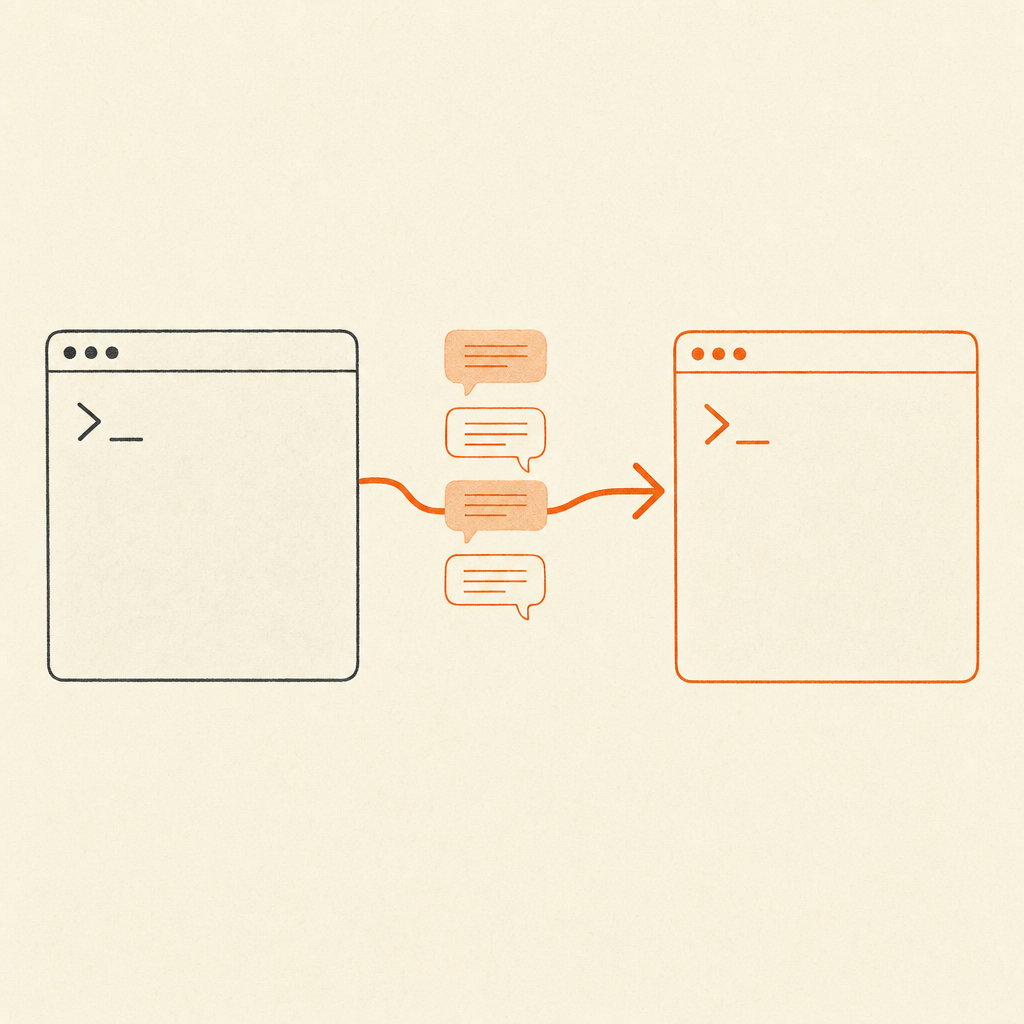
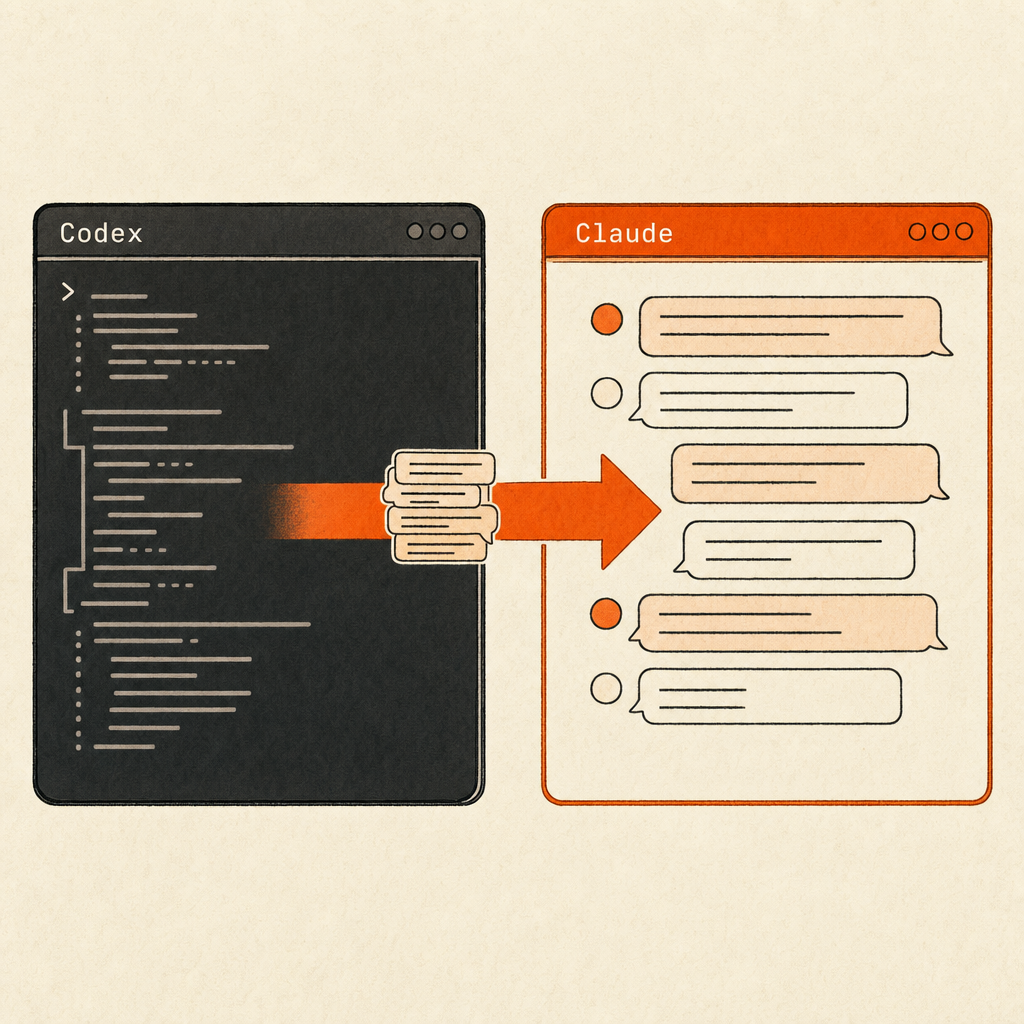
README: 只顶部 bio 双语(可见), 其余英文; hero 重画 Codex→Claude 标注+紧凑构图

diff --git a/bin/gen-hero.py b/bin/gen-hero.py
@@ -4,13 +4,16 @@ import os, sys, json, base64, urllib.request
 
 KEY = os.environ["OPENROUTER_API_KEY"]
 PROMPT = (
-    "A minimal flat editorial illustration on a warm paper-ink background (#F4EEE2). "
-    "Two simple terminal windows side by side: the left one tinted neutral charcoal, "
-    "the right one accented with persimmon orange (#F25C05). A single bold persimmon arrow "
-    "flows from the left terminal into the right one, carrying a small stylized stack of "
-    "chat-bubble lines (a conversation transcript) along the arrow. Calm, intentional, "
-    "hand-crafted tech aesthetic, lots of negative space, thin ink strokes, no text, "
-    "no logos, no emoji. 16:9 composition."
+    "A minimal flat editorial illustration on a warm paper-ink background (#F4EEE2), "
+    "tight composition that fills the frame with little empty margin. "
+    "Two simple terminal windows side by side, large and centered. The left window is "
+    "tinted neutral charcoal and clearly labeled 'Codex' in small clean lettering on its "
+    "title bar. The right window is accented with persimmon orange (#F25C05) and clearly "
+    "labeled 'Claude' on its title bar. A single bold persimmon arrow flows from the left "
+    "(Codex) terminal into the right (Claude) one, carrying a small stylized stack of "
+    "chat-bubble lines (a conversation transcript) along the arrow. Only the two words "
+    "'Codex' and 'Claude' appear as text; no other text, no logos, no emoji. Calm, "
+    "intentional, hand-crafted tech aesthetic, thin ink strokes. 16:9 composition."
 )
 
 def call(model):

diff --git a/README.md b/README.md
@@ -1,24 +1,24 @@
 # codex2claude
 
 Import a Codex session into Claude Code and resume it directly with `claude --resume` after quitting.
-<!-- 把一条 Codex 会话导入 Claude Code，退出后 `claude --resume` 直接接着聊。 -->
+
+把一条 Codex 会话导入 Claude Code，退出后用 `claude --resume` 直接接着聊。
 
 Codex natively supports `import-from-Claude`, but the reverse direction has been missing. `codex2claude` fills that gap — shipped as a Claude Code plugin, one slash command does the job.
-<!-- Codex 原生支持 `import-from-Claude`，反方向一直缺。`codex2claude` 补上这条——做成一个 Claude Code 插件，一个 slash 命令搞定。 -->
+
+Codex 原生支持 `import-from-Claude`，反方向一直缺。`codex2claude` 补上这条——做成一个 Claude Code 插件，一个 slash 命令搞定。
 
 <p align="center"><img src="assets/hero.png" width="480" alt="codex2claude"></p>
 
 ## Install
 
 Requires the [transession](https://github.com/inmzhang/transession) engine for transcoding:
-<!-- 需要引擎 [transession](https://github.com/inmzhang/transession) 做转码： -->
 
 ```sh
 cargo install transession
 ```
 
 Install the plugin (inside Claude Code):
-<!-- 装插件（Claude Code 内）： -->
 
 ```
 /plugin marketplace add MisterBrookT/codex2claude
@@ -28,7 +28,6 @@ Install the plugin (inside Claude Code):
 ## Usage
 
 Inside Claude Code:
-<!-- 在 Claude Code 里： -->
 
 ```
 /import-codex            # default: import ALL Codex sessions (the reverse of Codex's)
@@ -37,10 +36,8 @@ Inside Claude Code:
 ```
 
 Each session is written into its matching project directory by its own `cwd`, with deduplication. Quit after importing, then run `claude -r` in any project — the picker lists the just-imported Codex sessions; pick one to continue. No manual transcoding commands.
-<!-- 每条按它自己的 cwd 写进对应项目目录、去重。导完退出，在任意项目里跑 `claude -r`，picker 就列出刚导入的 Codex 会话，选一条接着聊。全程不手敲转码命令。 -->
 
 > Zero-token option: the slash command still passes through the model once per call. To burn zero tokens, run `bash ~/.claude/bin/import-codex.sh` directly in the terminal (or wrap it in an alias). Claude Code's custom slash commands must pass through one model round — this is a platform limit.
-> <!-- 零 token 方案：slash 命令每次会过一次模型。想完全不耗 token，直接在终端跑 `bash ~/.claude/bin/import-codex.sh`（或包个 alias）。Claude Code 的自定义 slash 必经模型一轮，这是平台限制。 -->
 
 ## How it works
 
@@ -53,17 +50,9 @@ Each session is written into its matching project directory by its own `cwd`, wi
 - **normalize**: rewrites the output into a native-faithful transcript (fixes Codex content tags, image sources, picker title, missing native fields) so it loads and resumes without errors
 - **dedup**: `~/.claude/codex-import-ledger.tsv` tracks `codex_sid → claude_sid` so the same session isn't re-imported
 
-<!--
-- **detect**：默认抓全部 Codex rollout，也可传 session id
-- **transcode**：复用 transession 的 universal IR 在两套格式间互转
-- **normalize**：把输出改写成原生忠实的 transcript（修 Codex content tag、图片源、picker 标题、缺的原生字段），保证能加载且续聊不报错
-- **dedup**：`~/.claude/codex-import-ledger.tsv` 记 `codex_sid → claude_sid`，同一条不重复导
--->
-
 ## Limitations
 
 Converts messages / tool calls / timestamps / metadata; **drops** the reasoning payload and runtime cache — enough context to resume, not a token-perfect replica.
-<!-- 转 messages / tool calls / timestamps / metadata，**丢** reasoning payload 和 runtime cache——resume 的上下文够用，不是逐 token 复刻。 -->
 
 ## License
 